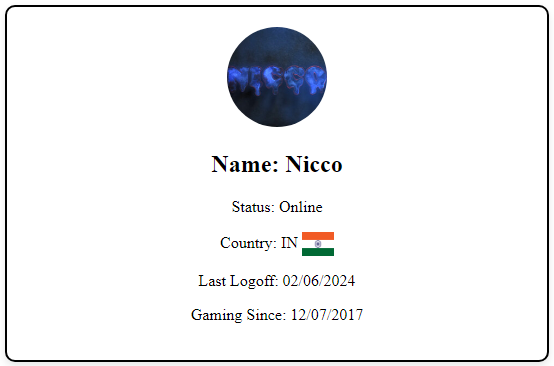
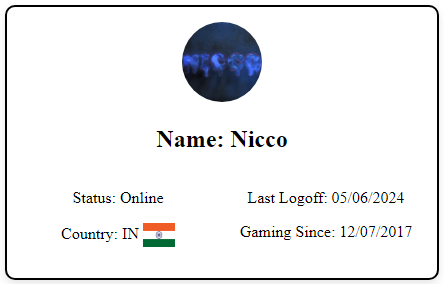
Update code

diff --git a/assets/steam_summary.html b/assets/steam_summary.html
@@ -8,17 +8,17 @@
     <style>
         .card {
             width: 100%;
-            max-width: 500px;
+            max-width: 400px;
             margin: auto;
             border: 2px solid #000;
-            padding: 20px;
+            padding: 15px;
             box-shadow: 0 4px 8px rgba(0, 0, 0, 0.1);
             border-radius: 10px;
             background-color: #fff;
         }
         .avatar {
-            width: 100px;
-            height: 100px;
+            width: 80px;
+            height: 80px;
             border-radius: 50%;
             margin: auto;
         }
@@ -30,6 +30,14 @@
             height: 24px;
             vertical-align: middle;
         }
+        .info-container {
+            display: flex;
+            justify-content: space-between;
+            margin-top: 10px;
+        }
+        .info-left, .info-right {
+            width: 48%;
+        }
     </style>
 </head>
 <body>
@@ -37,13 +45,19 @@
         <div class="content">
             <img id="avatar" class="avatar" src="https://avatars.steamstatic.com/0718d631353dd49100dde0be17dd7e88e984478f_full.jpg" alt="Avatar">
             <h2 id="name">Name: Nicco</h2>
-            <p id="status">Status: Online</p>
-            <p id="country">Country: <span id="country-code">IN</span>
-                <img id="flag" class="flag"
-                src="https://flagcdn.com/w320/in.png" alt="Flag">
-            </p>
-            <p id="lastlogoff">Last Logoff: 02/06/2024</p>
-            <p id="lastlogoff">Gaming Since: 12/07/2017</p>
+            <div class="info-container">
+                <div class="info-left">
+                    <p id="status">Status: Online</p>
+                    <p id="country">Country: <span id="country-code">IN</span>
+                        <img id="flag" class="flag"
+                        src="https://flagcdn.com/w320/in.png" alt="Flag">
+                    </p>
+                </div>
+                <div class="info-right">
+                    <p id="lastlogoff">Last Logoff: 05/06/2024</p>
+                    <p id="timecreated">Gaming Since: 12/07/2017</p>
+                </div>
+            </div>
             
         </div>
     </div>

diff --git a/assets/recently_played_games.html b/assets/recently_played_games.html
@@ -16,19 +16,19 @@
                 <img src="https://media.steampowered.com/steamcommunity/public/images/apps/730/8dbc71957312bbd3baea65848b545be9eae2a355.jpg" alt="Counter-Strike 2" class="game-icon">
                 <progress class="progress-style-1" value="100"
                 max="100"></progress>
-                <span class="game-info"><b>Counter-Strike 2 (7.12 hrs)</b></span>
+                <span class="game-info"><b>Counter-Strike 2 (5.82 hrs)</b></span>
             </div>
             
             <div class="bar-container">
                 <img src="https://media.steampowered.com/steamcommunity/public/images/apps/1521580/78a54aba83ed0dc7039b2f3afd232dfc41f79c44.jpg" alt="Perfect Heist 2" class="game-icon">
-                <progress class="progress-style-2" value="49"
+                <progress class="progress-style-2" value="50"
                 max="100"></progress>
                 <span class="game-info"><b>Perfect Heist 2 (18 mins)</b></span>
             </div>
             
             <div class="bar-container">
                 <img src="https://media.steampowered.com/steamcommunity/public/images/apps/431960/72edaed9d748c6cf7397ffb1c83f0b837b9ebd9d.jpg" alt="Wallpaper Engine" class="game-icon">
-                <progress class="progress-style-3" value="38"
+                <progress class="progress-style-3" value="39"
                 max="100"></progress>
                 <span class="game-info"><b>Wallpaper Engine (9 mins)</b></span>
             </div>

diff --git a/api/card.py b/api/card.py
@@ -138,17 +138,17 @@ def generate_card_for_player_summary(player_data):
     <style>
         .card {{
             width: 100%;
-            max-width: 500px;
+            max-width: 400px;
             margin: auto;
             border: 2px solid #000;
-            padding: 20px;
+            padding: 15px;
             box-shadow: 0 4px 8px rgba(0, 0, 0, 0.1);
             border-radius: 10px;
             background-color: #fff;
         }}
         .avatar {{
-            width: 100px;
-            height: 100px;
+            width: 80px;
+            height: 80px;
             border-radius: 50%;
             margin: auto;
         }}
@@ -160,6 +160,14 @@ def generate_card_for_player_summary(player_data):
             height: 24px;
             vertical-align: middle;
         }}
+        .info-container {{
+            display: flex;
+            justify-content: space-between;
+            margin-top: 10px;
+        }}
+        .info-left, .info-right {{
+            width: 48%;
+        }}
     </style>
 </head>
 <body>
@@ -167,13 +175,19 @@ def generate_card_for_player_summary(player_data):
         <div class="content">
             <img id="avatar" class="avatar" src="{avatarfull}" alt="Avatar">
             <h2 id="name">Name: {personaname}</h2>
-            <p id="status">Status: {personastate_value}</p>
-            <p id="country">Country: <span id="country-code">{loccountrycode}</span>
-                <img id="flag" class="flag"
-                src="https://flagcdn.com/w320/{loccountrycode.lower()}.png" alt="Flag">
-            </p>
-            <p id="lastlogoff">Last Logoff: {lastlogoff_str}</p>
-            <p id="lastlogoff">Gaming Since: {timecreated_str}</p>
+            <div class="info-container">
+                <div class="info-left">
+                    <p id="status">Status: {personastate_value}</p>
+                    <p id="country">Country: <span id="country-code">{loccountrycode}</span>
+                        <img id="flag" class="flag"
+                        src="https://flagcdn.com/w320/{loccountrycode.lower()}.png" alt="Flag">
+                    </p>
+                </div>
+                <div class="info-right">
+                    <p id="lastlogoff">Last Logoff: {lastlogoff_str}</p>
+                    <p id="timecreated">Gaming Since: {timecreated_str}</p>
+                </div>
+            </div>
             {"<p id='game'>Currently Playing: <span id='game-info'>" +
              gameextrainfo + "</span></p>" if gameextrainfo else ""}
         </div>
@@ -181,11 +195,11 @@ def generate_card_for_player_summary(player_data):
 </body>
 </html>
     """
-    with open("assets/steam_summary.html", "w", encoding="utf-8") as file:
+    with open("../assets/steam_summary.html", "w", encoding="utf-8") as file:
         file.write(html_content)
 
-    convert_html_to_png("assets/steam_summary.html",
-                        "assets/steam_summary.png", ".card")
+    convert_html_to_png("../assets/steam_summary.html",
+                        "../assets/steam_summary.png", ".card")
 
     return (
         "![Steam Summary]"
@@ -244,11 +258,11 @@ def generate_card_for_played_games(games_data):
 </html>
     """
 
-    with open("assets/recently_played_games.html", "w", encoding="utf-8") as file:
+    with open("../assets/recently_played_games.html", "w", encoding="utf-8") as file:
         file.write(html_content)
 
-    convert_html_to_png("assets/recently_played_games.html",
-                        "assets/recently_played_games.png", ".card")
+    convert_html_to_png("../assets/recently_played_games.html",
+                        "../assets/recently_played_games.png", ".card")
 
     return (
         "![Steam Summary]"
@@ -332,11 +346,11 @@ def generate_card_for_steam_workshop(workshop_stats):
 </body>
 </html>
     """
-    with open("assets/steam_workshop_stats.html", "w", encoding="utf-8") as file:
+    with open("../assets/steam_workshop_stats.html", "w", encoding="utf-8") as file:
         file.write(html_content)
 
-    convert_html_to_png("assets/steam_workshop_stats.html",
-                        "assets/steam_workshop_stats.png", ".card")
+    convert_html_to_png("../assets/steam_workshop_stats.html",
+                        "../assets/steam_workshop_stats.png", ".card")
 
     return (
         "![Steam Summary]"

diff --git a/api/main.py b/api/main.py
@@ -12,20 +12,17 @@ from dotenv import load_dotenv
 
 load_dotenv()
 
-# Secrets Configuration
-STEAM_API_KEY = os.getenv("STEAM_API_KEY")
-STEAM_CUSTOM_ID = os.getenv("STEAM_CUSTOM_ID")
+# Required Secrets Configuration
+STEAM_ID = os.environ["INPUT_STEAM_ID"]
+STEAM_API_KEY = os.environ["INPUT_STEAM_API_KEY"]
+STEAM_CUSTOM_ID = os.environ["INPUT_STEAM_CUSTOM_ID"]
 
-workshop_stats = os.getenv("WORKSHOP_STATS", "false").lower() == "true"
-plot_scale = os.getenv("PLOT_SCALE", "normal").lower()
-
-# Verify that the environment variables are loaded correctly
-if not STEAM_CUSTOM_ID:
-    raise ValueError(
-        "Missing STEAM_ID in environment variables")
+# Optional Feature Flags
+WORKSHOP_STATS = os.getenv("WORKSHOP_STATS", "false").lower() == "true"
+LOG_SCALE = os.getenv("LOG_SCALE", "false").lower() == "true"
 
 
-def update_readme(markdown_data, start_marker, end_marker, readme_path="README.md"):
+def update_readme(markdown_data, start_marker, end_marker, readme_path="../README.md"):
     """Updates the README.md file with the provided Markdown content within specified markers."""
     # Read the current README content
     with open(readme_path, "r", encoding="utf-8") as file:
@@ -58,7 +55,6 @@ if __name__ == "__main__":
 
     player_summary = get_player_summaries()
     recently_played_games = get_recently_played_games()
-    links = fetch_workshop_item_links(STEAM_CUSTOM_ID, STEAM_API_KEY)
 
     USER_MARKDOWN_CONTENT = ""
     if player_summary and recently_played_games:
@@ -76,26 +72,25 @@ if __name__ == "__main__":
     else:
         print("Failed to fetch Steam Summary & Games Data")
 
-    if workshop_stats is True:
+    if USER_MARKDOWN_CONTENT:
+        update_readme(USER_MARKDOWN_CONTENT,
+                      "<!-- Steam-Stats start -->", "<!-- Steam-Stats end -->")
+        print("README.md has been successfully updated with Steam User Stats")
+
+    if WORKSHOP_STATS is True:
         WORKSHOP_MARKDOWN_CONTENT = ""
+        links = fetch_workshop_item_links(STEAM_CUSTOM_ID, STEAM_API_KEY)
         if links:
             workshop_data = fetch_all_workshop_stats(links)
             WORKSHOP_MARKDOWN_CONTENT += generate_card_for_steam_workshop(
                 workshop_data)
             print("Retrieved all Workshop Stats")
+            update_readme(WORKSHOP_MARKDOWN_CONTENT,
+                          "<!-- Steam-Workshop start -->", "<!-- Steam-Workshop end -->")
+            print("README.md has been successfully updated with Steam Workshop Stats")
         else:
             print("No workshop content was found")
 
-    if USER_MARKDOWN_CONTENT and WORKSHOP_MARKDOWN_CONTENT:
-        update_readme(USER_MARKDOWN_CONTENT,
-                      "<!-- Steam-Stats start -->", "<!-- Steam-Stats end -->")
-        update_readme(WORKSHOP_MARKDOWN_CONTENT,
-                      "<!-- Steam-Workshop start -->", "<!-- Steam-Workshop end -->")
-        print("README.md has been successfully updated")
-    else:
-        print("Failed to fetch or process data")
-
     end_time = time.time()  # End the timer
-    total_time = end_time-start_time
-    total_time = round(total_time, 3)  # Total time
+    total_time = round(end_time-start_time, 3)  # Total time
     print(f"Total Execution Time: {total_time} seconds")

diff --git a/api/steam_workshop.py b/api/steam_workshop.py
@@ -1,5 +1,4 @@
 """Scrape Steam Workshop Data"""
-import json
 import os
 import requests
 from bs4 import BeautifulSoup, Tag
@@ -7,9 +6,10 @@ from dotenv import load_dotenv
 
 load_dotenv()
 
-# Secrets Configuration
-STEAM_API_KEY = os.getenv("STEAM_API_KEY")
-STEAM_CUSTOM_ID = os.getenv("STEAM_CUSTOM_ID")
+# Required Secrets Configuration
+STEAM_API_KEY = os.environ["INPUT_STEAM_API_KEY"]
+STEAM_CUSTOM_ID = os.environ["INPUT_STEAM_CUSTOM_ID"]
+
 
 # A reasonable timeout for the request (connection and read timeout)
 REQUEST_TIMEOUT = (10, 15)
@@ -199,20 +199,3 @@ def fetch_all_workshop_stats(item_links):
         "total_current_favorites": total_current_favorites,
         "individual_stats": all_stats
     }
-
-
-def save_to_file(data, filename):
-    """Save fetched data to a file in JSON format"""
-    if data is not None:
-        with open(filename, 'w', encoding='utf-8') as file:
-            # Use json.dump to write the JSON data to the file
-            json.dump(data, file, indent=4)
-        print(f"Data saved to {filename}")
-    else:
-        print("No data to save")
-
-
-if __name__ == "__main__":
-    itemlinks = fetch_workshop_item_links(STEAM_CUSTOM_ID, STEAM_API_KEY)
-    workshop_data = fetch_all_workshop_stats(itemlinks)
-    save_to_file(workshop_data, "workshop_data.json")

diff --git a/api/steam_stats.py b/api/steam_stats.py
@@ -5,14 +5,9 @@ from dotenv import load_dotenv
 
 load_dotenv()
 
-# Secrets Configuration
-STEAM_API_KEY = os.getenv("STEAM_API_KEY")
-STEAM_ID = os.getenv("STEAM_ID")
-
-# Verify that the environment variables are loaded correctly
-if not STEAM_API_KEY or not STEAM_ID:
-    raise ValueError(
-        "Missing STEAM_API_KEY or STEAM_ID in environment variables")
+# Required Secrets Configuration
+STEAM_ID = os.environ["INPUT_STEAM_ID"]
+STEAM_API_KEY = os.environ["INPUT_STEAM_API_KEY"]
 
 # A reasonable timeout for the request (connection and read timeout)
 REQUEST_TIMEOUT = (10, 15)

diff --git a/README.md b/README.md
@@ -5,6 +5,23 @@
 ![pylint](https://img.shields.io/badge/PyLint-10.00-brightgreen?logo=python&logoColor=white)
 [![Visitor Badge](https://badges.pufler.dev/visits/nicconike/steam-stats)](https://badges.pufler.dev)
 
+> ### From one Passionate Gamer and Developer to Another 🍻
+
+## Prerequisites
+1. **Steam Web API Key:** API key is important to fetch your account details and for that you will require a key which you can create for your account [here](https://steamcommunity.com/dev).
+2. **Github API Token:**
+   1. Goto your Github profile -> Settings -> Developer Settings -> Personal Access Tokens -> Tokens(Classic) or just click [here](https://github.com/settings/tokens)
+   2. Generate new token -> Generate new token(classic)
+   3. Select scopes -> repo and workflow only
+   4. Set a reasonable expiration date
+3. **Steam ID:** You can get your 64-bit Steam id (SteamID64 - 17 digit number) by clicking on your profile name in the top right corner in steam desktop client, select "Account Details" and your Steam ID will be displayed directly under your account name
+4. **Steam Custom ID:** Open the Steam desktop application, click on your profile name in the top right corner. Select "View Profile" and your custom URL will be displayed in the URL bar. From this url you will know your Steam Custom ID
+
+### Samples/Features
+1. Steam Player Summary
+2. Recently Played Games from Steam in the Last 2 Weeks
+3. Steam Workshop Stats (If Available)
+
 <!-- Steam-Stats start -->
 ![Steam Summary](https://github.com/Nicconike/Steam-Stats/blob/master/assets/steam_summary.png)
 ![Steam Summary](https://github.com/Nicconike/Steam-Stats/blob/master/assets/recently_played_games.png)

diff --git a/CODE_OF_CONDUCT.md b/CODE_OF_CONDUCT.md
@@ -60,7 +60,7 @@ representative at an online or offline event.
 
 Instances of abusive, harassing, or otherwise unacceptable behavior may be
 reported to the community leaders responsible for enforcement at
-nicconike6@gmail.com.
+*nicconike6@gmail.com*.
 All complaints will be reviewed and investigated promptly and fairly.
 
 All community leaders are obligated to respect the privacy and security of the
